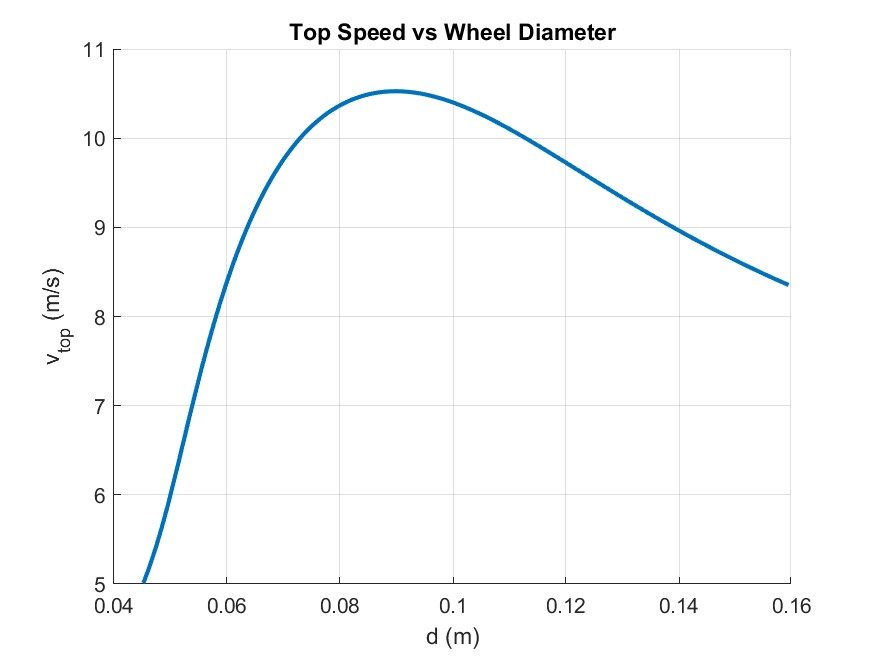
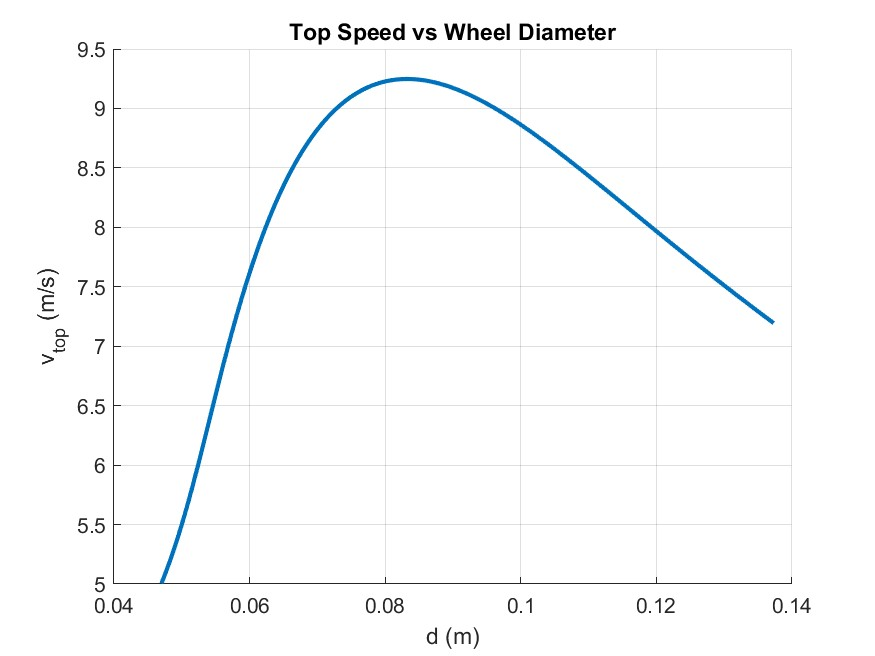
Using Experimental Friction and Inertia

diff --git a/Vehicle.m b/Vehicle.m
@@ -7,8 +7,6 @@ classdef Vehicle
         F_d
         mul_a
         mul_q
-        mul_s
-        mul_c
     end
     methods
         function self = Vehicle(air, fan, d, F_d)
@@ -18,41 +16,24 @@ classdef Vehicle
             self.d = d;
             self.Z = 1;
             self.F_d = F_d;
-            m_wheel = 50e-3;
-            I_wheel = m_wheel * self.d^2/8;
-            % https://www.3d4makers.com/products/pla-filament
-            R_pla = 1250;
-            V_pla = 43864.018e-9;
-            % https://link.springer.com/article/10.1007/s00226-015-0700-5
-            R_balsa = (100 + 250) / 2;
-            V_balsa = 39578.46e-9;
-            m_body = R_pla * V_pla + R_balsa * V_balsa;
-            m = m_body + fan.m + m_wheel * 3;
+            % From the experiments.
+            m = 300e-3;
             % https://www.grainger.com/know-how/equipment-information/kh-types-of-belt-drives-efficiency
             n = 0.9;
-            self.mul_a = (m + (12 * I_wheel + 4 * self.fan.I / (n * self.Z^2)) / self.d^2)^ - 1;
+            % From the experiments m_wheel = 0.
+            self.mul_a = (m + 4 * self.fan.I / (n * self.Z^2) / self.d^2)^ - 1;
             self.mul_q = 2 / (n * self.Z * self.d);
-            % https://www.engineeringtoolbox.com/dynamic-viscosity-motor-oils-d_1759.html
-            u = 0.63;
-            s_r = 3e-3/2;
-            s_c = 0.5e-3;
-            s_l = 10e-3;
-            self.mul_s = 4 * pi * u * s_r^3 * s_l / s_c * 4 / self.d;
-            c_r = 3e-3/2;
-            c_c = 0.5e-3;
-            c_l = 87.5e-3;
-            self.mul_c = 2 * pi * u * c_r^3 * c_l / c_c * self.mul_q;
         end
-        function [a, v_t, F_t, F_d, F_q, F_s, F_c, F_net] = Acceleration(self, v)
+        function [a, v_t, F_t, F_d, F_q, F_f, F_net] = Acceleration(self, v)
             v_t = self.air.TrueSpeed(v);
             w_b = 2 / self.d * v;
             w_p = w_b / self.Z;
             [F_t, T_q] = self.fan.Find(self.air, v_t, w_p);
             F_d = self.F_d(v_t);
             F_q = self.mul_q * T_q;
-            F_s = self.mul_s * w_b;
-            F_c = self.mul_c * w_p;
-            F_net = F_t - F_q - F_s - F_c - F_d;
+            % From the experiments.
+            F_f = 0.04905 + v / (20/3600e-3) * (0.0614214);
+            F_net = F_t - F_q - F_f - F_d;
             a = F_net * self.mul_a;
         end
         function [v_min, v_max] = SpeedBoundary(self)

diff --git a/VelocityRelations.m b/VelocityRelations.m
@@ -1,7 +1,7 @@
 function v_range = VelocityRelations(vehicle)
     [v_min, v_max] = vehicle.SpeedBoundary();
     v_range = v_min:(v_max - v_min) / 1e3:v_max;
-    [a_range, ~, F_t_range, F_d_range, F_q_range, F_s_range, F_c_range, F_net_range] = vehicle.Acceleration(v_range);
+    [a_range, ~, F_t_range, F_d_range, F_q_range, F_f_range, F_net_range] = vehicle.Acceleration(v_range);
     [~, k_top] = min(abs(a_range));
     if a_range(k_top) < 0
         k_top = k_top - 1;
@@ -21,12 +21,11 @@ function v_range = VelocityRelations(vehicle)
     plot(v_range(k_range), F_t_range(k_range), 'LineWidth', 2);
     plot(v_range(k_range), F_d_range(k_range), 'LineWidth', 2);
     plot(v_range(k_range), F_q_range(k_range), 'LineWidth', 2);
-    plot(v_range(k_range), F_s_range(k_range), 'LineWidth', 2);
-    plot(v_range(k_range), F_c_range(k_range), 'LineWidth', 2);
+    plot(v_range(k_range), F_f_range(k_range), 'LineWidth', 2);
     plot(v_range(k_range), F_net_range(k_range), 'LineWidth', 2);
     ylabel('F (N)');
     xlabel('v (m/s)');
     title(sprintf('Forces vs Velocity d=%.1f mm', 1e3 * vehicle.d));
-    legend('F_t', 'F_d', 'F_q', 'F_s', 'F_c', 'F_{net}', 'Location', 'Best');
+    legend('F_t', 'F_d', 'F_q', 'F_f', 'F_{net}', 'Location', 'Best');
     saveas(gcf, 'Forces vs Velocity', 'jpeg');
 end

diff --git a/Simulate.m b/Simulate.m
@@ -1,7 +1,7 @@
 function v_range = Simulate(vehicle, t_f)
     [v_min, ~] = vehicle.SpeedBoundary();
     [t_range, v_range] = RungeKuttaMethod(@(~, V) vehicle.Acceleration(V), 1e3, t_f, v_min);
-    [a_range, ~, F_t_range, F_d_range, F_q_range, F_s_range, F_c_range, F_net_range] = vehicle.Acceleration(v_range);
+    [a_range, ~, F_t_range, F_d_range, F_q_range, F_f_range, F_net_range] = vehicle.Acceleration(v_range);
     figure();
     hold('on');
     grid('on');
@@ -24,12 +24,11 @@ function v_range = Simulate(vehicle, t_f)
     plot(t_range, F_t_range, 'LineWidth', 2);
     plot(t_range, F_d_range, 'LineWidth', 2);
     plot(t_range, F_q_range, 'LineWidth', 2);
-    plot(t_range, F_s_range, 'LineWidth', 2);
-    plot(t_range, F_c_range, 'LineWidth', 2);
+    plot(t_range, F_f_range, 'LineWidth', 2);
     plot(t_range, F_net_range, 'LineWidth', 2);
     xlabel('t (s)');
     ylabel('F (N)');
     title(sprintf('Forces vs Time d=%.1f mm', 1e3 * vehicle.d));
-    legend('F_t', 'F_d', 'F_q', 'F_s', 'F_c', 'F_{net}', 'Location', 'Best');
+    legend('F_t', 'F_d', 'F_q', 'F_f', 'F_{net}', 'Location', 'Best');
     saveas(gcf, 'Forces vs Time', 'jpeg');
 end
